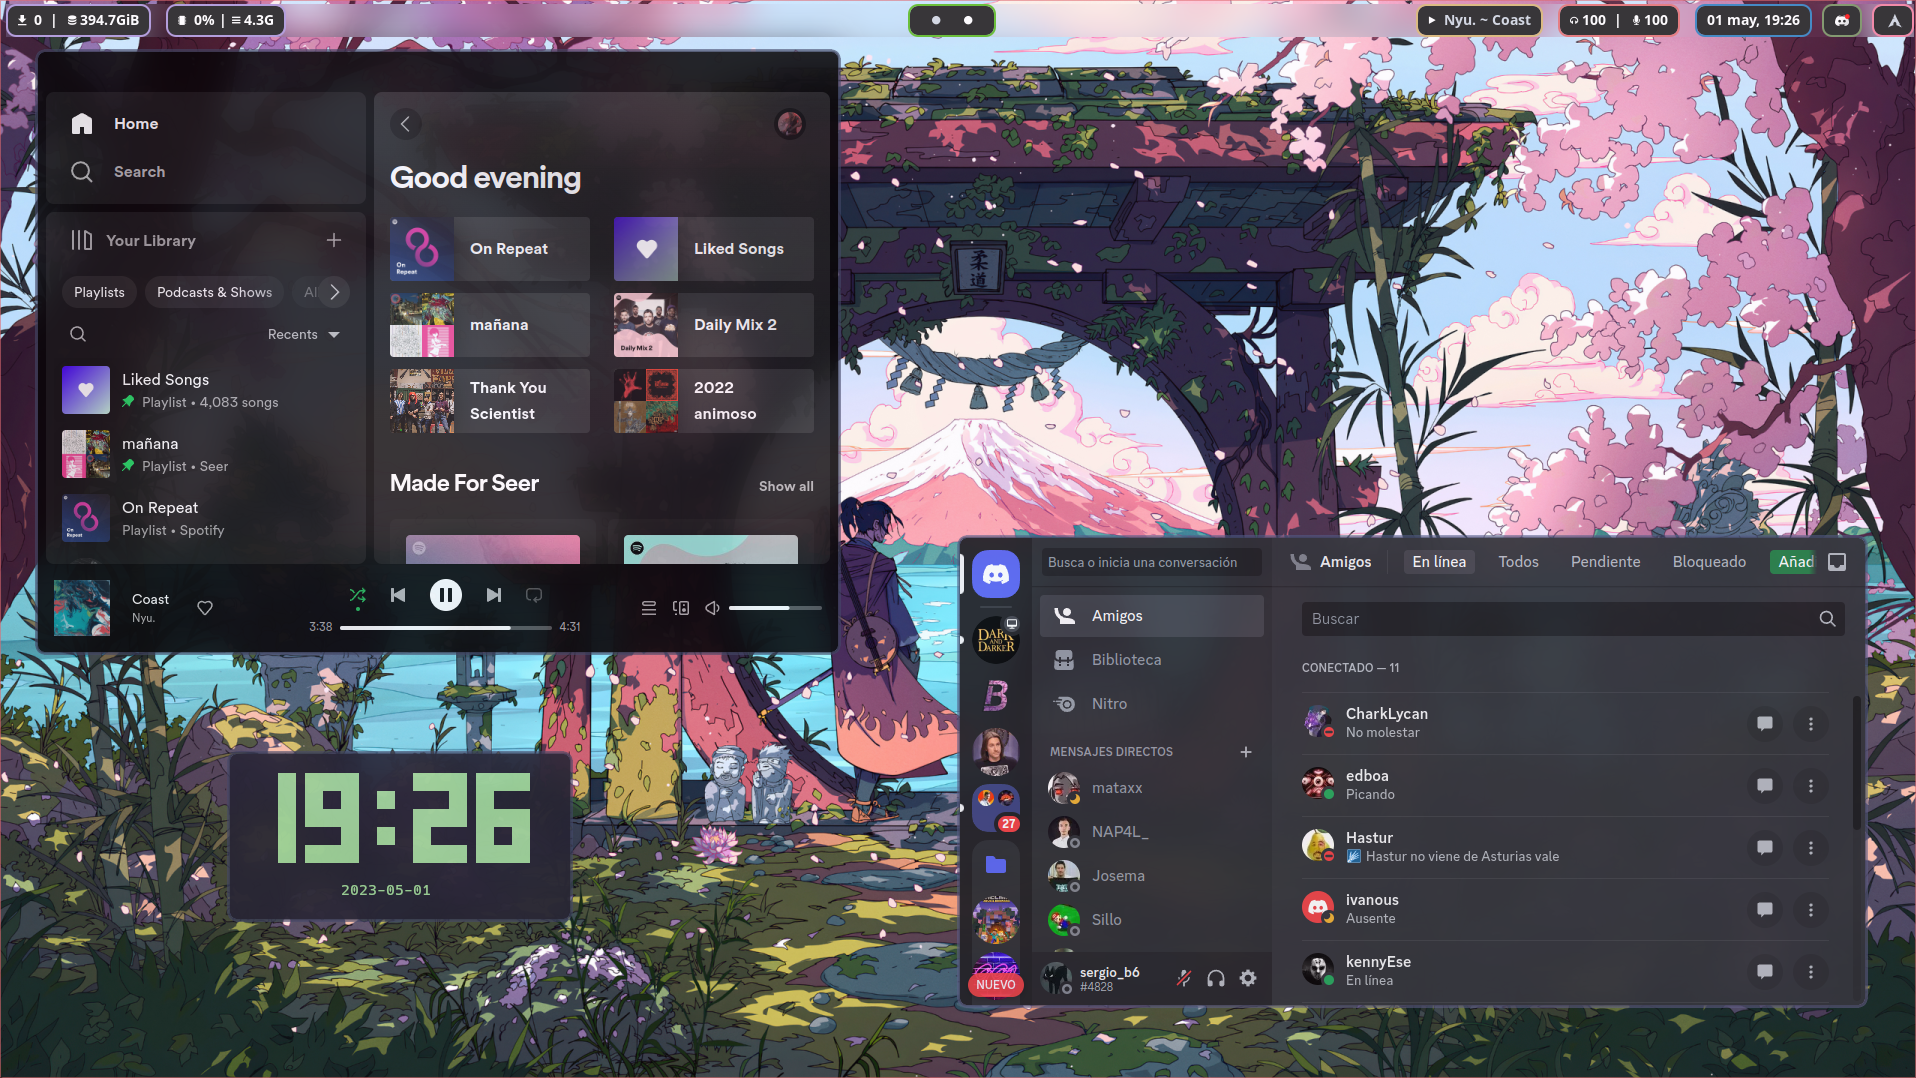
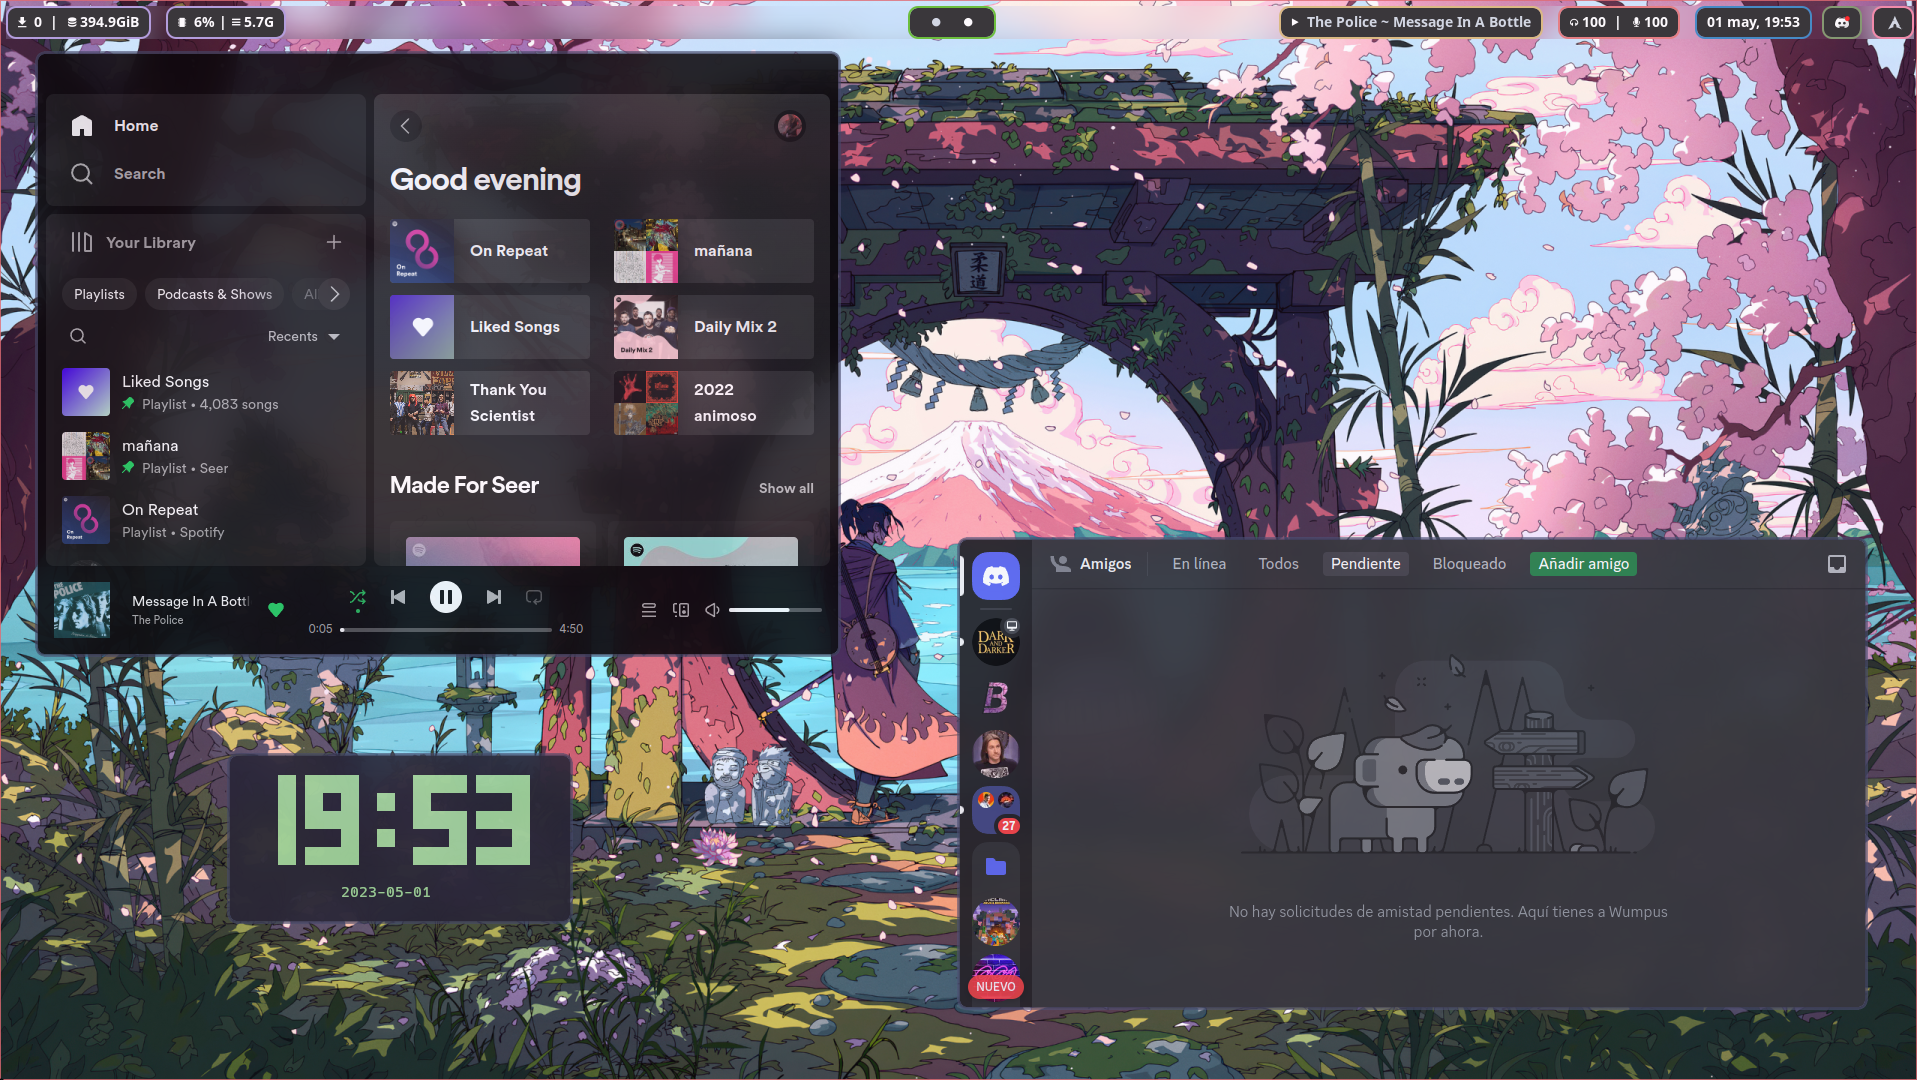
changes in readme

diff --git a/README.md b/README.md
@@ -1,5 +1,6 @@
 ## SCREENSHOTS:
 ### Main monitor (2k):
-![Screenshot](preview/preview_1.png)
+![Screenshot](preview/preview_1a.png)
+![Screenshot](preview/preview_1b.png)
 ### Second monitor (1080):
 ![Screenshot2](preview/preview_2.png)
